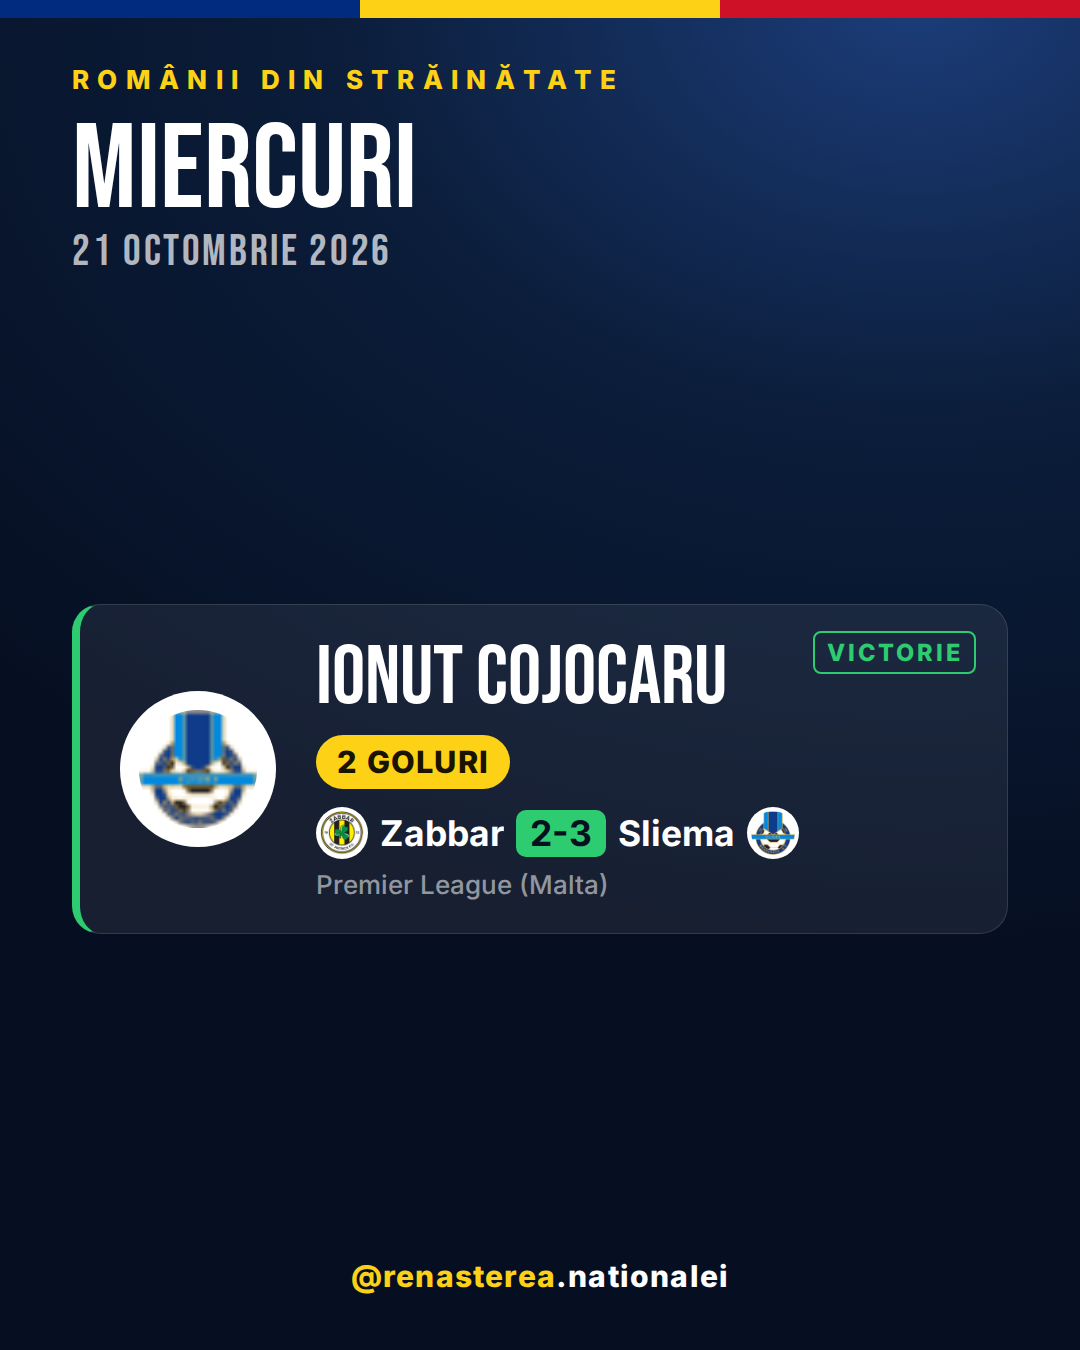
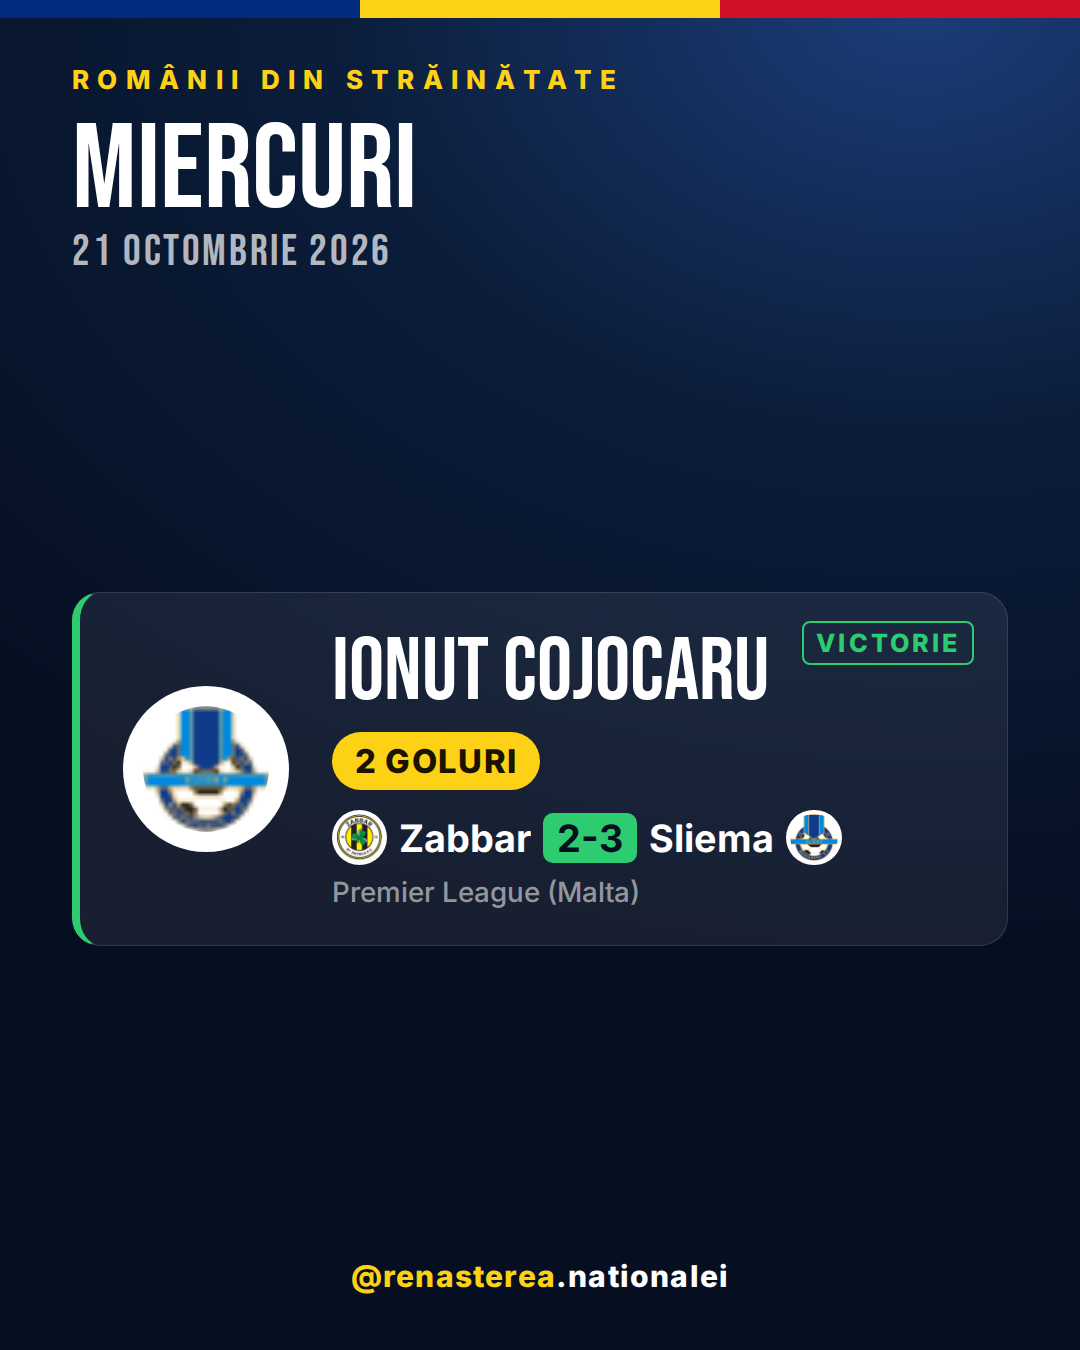
feat: JPEG copies of stories/posts for the IG API; shrink long names instead of truncating
The result tag now sits in a flex row with the name, so the name gets all
the space up to the tag; a name that still overflows shrinks on its own card.

Changed region(s): [[0.0917, 0.4667, 0.9167, 0.6844], [0.0611, 0.6844, 0.0917, 0.7156], [0.0611, 0.4356, 0.0917, 0.4667]]

diff --git a/scraper/stories.py b/scraper/stories.py
@@ -1,8 +1,9 @@
-"""Instagram story + feed post PNGs for every day Romanians scored/assisted.
+"""Instagram story + feed post images for every day Romanians scored/assisted.
 
 Reads site/data.json, renders a 1080x1920 HTML card per day with headless
 Chromium (Playwright) and writes site/stories/YYYY-MM-DD.png plus a
-1080x1350 feed post YYYY-MM-DD-post.png, and an
+1080x1350 feed post YYYY-MM-DD-post.png (each also as .jpg, which the
+Instagram publishing API requires), and an
 index.json the site uses to list them. Days with no goals/assists get no
 story (and a stale PNG for that day is removed).
 
@@ -86,10 +87,9 @@ def _card(e: dict) -> str:
     own = e["team_logo"] or (e["home_logo"] if e["home"] == e["team"] else e["away_logo"])
     return f"""
     <div class="card res-{e["result"] or "N"}">
-      {result_tag}
       {_crest(own, e["team"] or e["name"], "club")}
       <div class="body">
-        <div class="name">{escape(e["name"])}</div>
+        <div class="head"><div class="name">{escape(e["name"])}</div>{result_tag}</div>
         <div class="pills">{"".join(pills)}{rating}</div>
         <div class="match">
           {_crest(e["home_logo"], e["home"], "mini")}
@@ -139,7 +139,8 @@ def render_html(day: str, entries: list[dict], fmt: str = "story") -> str:
   .res-W {{ --res: #2ecc71; }}  .res-D {{ --res: #8a93a6; }}
   .res-L {{ --res: #ef4a5a; }}  .res-N {{ --res: #FCD116; }}
   .card {{ border-left-color: var(--res); }}
-  .result {{ position: absolute; top: calc(22px * var(--s)); right: calc(26px * var(--s));
+  .head {{ display: flex; align-items: flex-start; gap: calc(18px * var(--s)); }}
+  .result {{ flex: none; margin-top: calc(-6px * var(--s)); margin-right: calc(-8px * var(--s));
              font-weight: 800; font-size: calc(20px * var(--s)); letter-spacing: .12em;
              color: var(--res); border: 2px solid var(--res); border-radius: 8px;
              padding: calc(4px * var(--s)) calc(10px * var(--s)); }}
@@ -147,7 +148,7 @@ def render_html(day: str, entries: list[dict], fmt: str = "story") -> str:
            object-fit: contain; background: #fff; border-radius: 50%;
            padding: calc(16px * var(--s)); }}
   .body {{ min-width: 0; flex: 1; }}
-  .name {{ padding-right: calc(190px * var(--s));   /* room for the result tag */
+  .name {{ flex: 1; min-width: 0;
            font-family: 'Bebas Neue', sans-serif; font-size: calc(70px * var(--s));
            line-height: 1; white-space: nowrap; overflow: hidden; text-overflow: ellipsis; }}
   .pills {{ display: flex; gap: 12px; margin-top: calc(12px * var(--s)); align-items: center; }}
@@ -215,6 +216,11 @@ FIT_JS = """() => {
     }
   }
   while (!fits() && s > 0.4) { s -= 0.02; set(s); }
+  // a name that is still too long shrinks on its own card instead of being cut off
+  for (const el of box.querySelectorAll('.name')) {
+    let px = parseFloat(getComputedStyle(el).fontSize);
+    while (el.scrollWidth > el.clientWidth + 1 && px > 24) { px -= 1; el.style.fontSize = px + 'px'; }
+  }
 }"""
 
 
@@ -231,6 +237,8 @@ def render_pngs(jobs: list[tuple[str, Path, int]]) -> None:
             page.evaluate("document.fonts.ready")
             page.evaluate(FIT_JS)
             page.screenshot(path=str(out), full_page=False)
+            # the Instagram publishing API only accepts JPEG
+            page.screenshot(path=str(out.with_suffix(".jpg")), type="jpeg", quality=92)
             page.close()
         browser.close()
 
@@ -242,9 +250,9 @@ def render_png(html: str, out: Path, height: int = 1920) -> None:
 def _write_index(data: dict, today: date) -> None:
     cutoff = str(today - timedelta(days=KEEP_DAYS))
     items = []
-    for png in OUT_DIR.glob("????-??-??*.png"):
-        if png.name[:10] < cutoff:
-            png.unlink()
+    for img in [*OUT_DIR.glob("????-??-??*.png"), *OUT_DIR.glob("????-??-??*.jpg")]:
+        if img.name[:10] < cutoff:
+            img.unlink()
     for png in sorted(OUT_DIR.glob("????-??-??.png"), reverse=True):
         post = OUT_DIR / f"{png.stem}{FORMATS['post']['suffix']}.png"
         items.append({"date": png.stem, "file": f"stories/{png.name}",
@@ -269,6 +277,7 @@ def main(argv=None) -> int:
             out = OUT_DIR / f"{day}{spec['suffix']}.png"
             if not entries:
                 out.unlink(missing_ok=True)
+                out.with_suffix(".jpg").unlink(missing_ok=True)
                 continue
             html = render_html(day, entries, fmt)
             if args.html:
